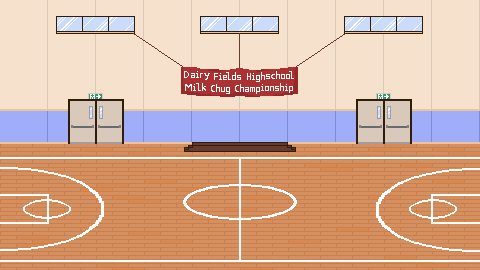
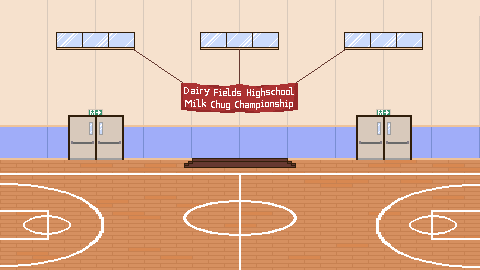
feat: add progress indicators

diff --git a/src/indicator.c b/src/indicator.c
@@ -1,0 +1,54 @@
+#include "indicator.h"
+
+#include "game.h"
+#include "render.h"
+
+static void indicator_tick(Indicator* self, uint16_t capacity, uint16_t max);
+
+Indicator* indicator_create(SDL_Renderer* renderer, int64_t x, int64_t y) {
+    Indicator* self = (Indicator*)malloc(sizeof(Indicator));
+    self->sprite_sheet = load_texture(renderer, "assets/images/indicator.png");
+    self->x = x;
+    self->y = y;
+
+    return self;
+}
+
+void indicator_update(
+    Indicator* self, Event event, uint16_t capacity, uint16_t max
+) {
+    switch (event) {
+        case EVENT_TICK:
+            indicator_tick(self, capacity, max);
+        default:
+            break;
+    }
+}
+
+void indicator_render(
+    Indicator* self, SDL_Renderer* renderer, SDL_Window* window
+) {
+    int64_t window_x;
+    int64_t window_y;
+    local_xy_to_window_xy(
+        window, self->x, self->y, BACKGROUND_WIDTH, BACKGROUND_HEIGHT,
+        &window_x, &window_y
+    );
+
+    blit_sprite(
+        renderer, self->sprite_sheet, 0, self->sprite, window_x, window_y,
+        INDICATOR_SPRITE_WIDTH, INDICATOR_SPRITE_HEIGHT
+    );
+}
+
+void indicator_destroy(Indicator* self) {
+    free(self);
+}
+
+static void indicator_tick(Indicator* self, uint16_t capacity, uint16_t max) {
+    if (capacity < max) {
+        self->sprite = capacity * INDICATOR_SPRITE_NUM / max;
+    } else {
+        self->sprite = INDICATOR_SPRITE_NUM - 1;
+    }
+}

diff --git a/src/player.c b/src/player.c
@@ -16,6 +16,9 @@ Player* player_create(SDL_Renderer* renderer, int64_t x, int64_t y) {
     self->sprite_sheet = load_texture(renderer, "assets/images/player.png");
     self->x = x;
     self->y = y;
+    self->indicator = indicator_create(
+        renderer, x, y - INDICATOR_VERTICAL_OFFSET - INDICATOR_SPRITE_HEIGHT
+    );
 
     player_reset(self);
 
@@ -23,6 +26,10 @@ Player* player_create(SDL_Renderer* renderer, int64_t x, int64_t y) {
 }
 
 void player_update(Player* self, Event event) {
+    indicator_update(
+        self->indicator, event, self->milk_consumed, MILK_CAPACITY
+    );
+
     switch (event) {
         case EVENT_DRINK:
             player_drink(self);
@@ -43,9 +50,12 @@ void player_render(Player* self, SDL_Renderer* renderer, SDL_Window* window) {
         renderer, self->sprite_sheet, 0, self->sprite, window_x, window_y,
         PLAYER_SPRITE_WIDTH, PLAYER_SPRITE_HEIGHT
     );
+
+    indicator_render(self->indicator, renderer, window);
 }
 
 void player_destroy(Player* self) {
+    indicator_destroy(self->indicator);
     free(self);
 }
 

diff --git a/src/opponent.c b/src/opponent.c
@@ -20,6 +20,9 @@ Opponent* opponent_create(
     self->index = index;
     self->x = x;
     self->y = y;
+    self->indicator = indicator_create(
+        renderer, x, y - INDICATOR_VERTICAL_OFFSET - INDICATOR_SPRITE_HEIGHT
+    );
 
     char fname_buffer[MAX_FILENAME_LENGTH];
     snprintf(
@@ -33,6 +36,10 @@ Opponent* opponent_create(
 }
 
 void opponent_update(Opponent* self, Event event) {
+    indicator_update(
+        self->indicator, event, self->milk_consumed, MILK_CAPACITY
+    );
+
     switch (event) {
         case EVENT_TICK:
             opponent_drink(self);
@@ -55,9 +62,12 @@ void opponent_render(
         renderer, self->sprite_sheet, 0, self->sprite, window_x, window_y,
         PLAYER_SPRITE_WIDTH, PLAYER_SPRITE_HEIGHT
     );
+
+    indicator_render(self->indicator, renderer, window);
 }
 
 void opponent_destroy(Opponent* self) {
+    indicator_destroy(self->indicator);
     free(self);
 }
 

diff --git a/include/indicator.h b/include/indicator.h
@@ -1,0 +1,25 @@
+#pragma once
+
+#include <SDL2/SDL.h>
+
+#include "events.h"
+
+#define INDICATOR_SPRITE_WIDTH 16
+#define INDICATOR_SPRITE_HEIGHT 20
+#define INDICATOR_SPRITE_NUM 17
+
+typedef struct {
+    SDL_Texture* sprite_sheet;
+    uint8_t sprite;
+    int64_t x;
+    int64_t y;
+} Indicator;
+
+Indicator* indicator_create(SDL_Renderer* renderer, int64_t x, int64_t y);
+void indicator_update(
+    Indicator* self, Event event, uint16_t capacity, uint16_t max
+);
+void indicator_render(
+    Indicator* self, SDL_Renderer* renderer, SDL_Window* window
+);
+void indicator_destroy(Indicator* self);

diff --git a/src/stage.c b/src/stage.c
@@ -31,7 +31,7 @@ Stage* stage_create(SDL_Renderer* renderer, Player* player) {
         const int64_t shift_x = (i - 1) - ((i <= 1) ? 1 : 0);
         const int64_t opp_x = (BACKGROUND_WIDTH - PLAYER_SPRITE_WIDTH) / 2 +
             PLAYER_SPRITE_WIDTH * shift_x;
-        const int64_t opp_y = (BACKGROUND_HEIGHT - PLAYER_SPRITE_HEIGHT) / 2;
+        const int64_t opp_y = (BACKGROUND_HEIGHT + PLAYER_SPRITE_HEIGHT) / 2;
 
         self->opponents[i] = opponent_create(
             renderer, drink_duration, i, opp_x, opp_y

diff --git a/src/game.c b/src/game.c
@@ -58,7 +58,7 @@ Game* game_create(void) {
     );
 
     const int64_t player_x = (BACKGROUND_WIDTH - PLAYER_SPRITE_WIDTH) / 2;
-    const int64_t player_y = (BACKGROUND_HEIGHT - PLAYER_SPRITE_HEIGHT) / 2;
+    const int64_t player_y = (BACKGROUND_HEIGHT + PLAYER_SPRITE_HEIGHT) / 2;
     self->player = player_create(self->renderer, player_x, player_y);
 
     self->current_stage = stage_create(self->renderer, self->player);

diff --git a/include/player.h b/include/player.h
@@ -5,6 +5,7 @@
 #include <stdint.h>
 
 #include "events.h"
+#include "indicator.h"
 
 #define MILK_CAPACITY 4000
 #define MILK_SIP 100
@@ -24,6 +25,7 @@ typedef struct {
     uint8_t sprite;
     int64_t x;
     int64_t y;
+    Indicator* indicator;
 } Player;
 
 Player* player_create(SDL_Renderer* renderer, int64_t x, int64_t y);

diff --git a/include/opponent.h b/include/opponent.h
@@ -4,6 +4,7 @@
 #include <stdint.h>
 
 #include "events.h"
+#include "indicator.h"
 
 #define MAX_FILENAME_LENGTH 100
 
@@ -17,6 +18,7 @@ typedef struct Opponent {
     size_t index;
     uint64_t x;
     uint64_t y;
+    Indicator* indicator;
 } Opponent;
 
 Opponent* opponent_create(

diff --git a/include/stage.h b/include/stage.h
@@ -8,6 +8,7 @@
 #include "player.h"
 
 #define NUM_OPPONENTS 4
+#define INDICATOR_VERTICAL_OFFSET 4
 
 typedef struct {
     Player* player;
